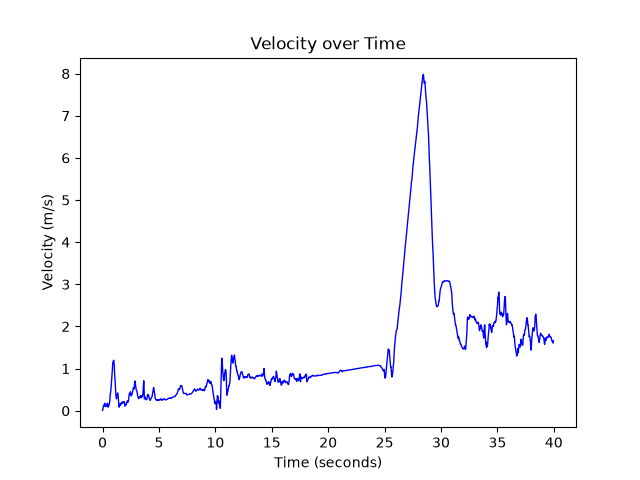
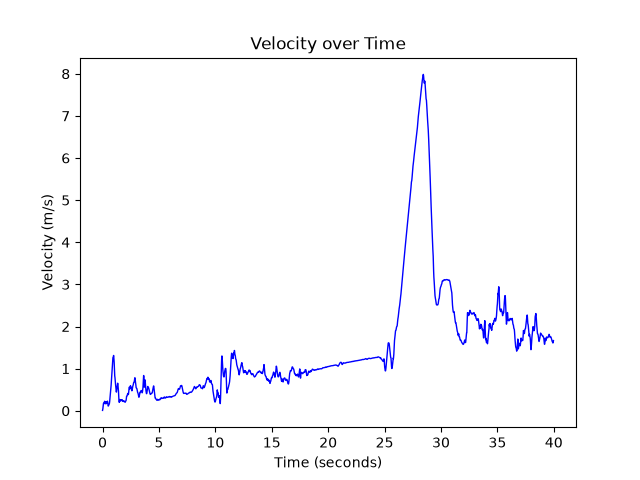
Use 3 vectors

Changed region(s): [[0.1562, 0.6562, 0.625, 0.8438], [0.6875, 0.625, 0.8438, 0.75], [0.6875, 0.5625, 0.7188, 0.5938]]

diff --git a/src/main.py b/src/main.py
@@ -32,12 +32,13 @@ def integrate():
     rotated = rotate_all()
     # velocity = rotated[:, -2] # -1, -2 works
 
-    to_find = [rotated[:, -2], rotated[:, -1]]
-    v_t_y_table, v_t_z_table = [], []
-    active_table = v_t_y_table
+    to_find = [rotated[:, -3], rotated[:, -2], rotated[:, -1]]
+    v_t_x_table, v_t_y_table, v_t_z_table = [], [], []
+    active_table = v_t_x_table
+    counter = 0
 
     for velo in to_find:
-        velocity = -cumtrapz(velo) * 0.01
+        velocity = cumtrapz(velo) * 0.01
 
         i = 0
         for j in velocity:
@@ -48,16 +49,20 @@ def integrate():
         active_table = np.array(active_table)
         time = active_table[:, 0]
         velocity = active_table[:, 1]
-        active_table = v_t_z_table
+        if (counter == 0):
+            active_table = v_t_y_table
+        else:
+            active_table = v_t_z_table
+        counter += 1
 
-    return np.array(v_t_y_table)[:, 1], np.array(v_t_z_table)[:, 1], time
+    return np.array(v_t_x_table)[:, 1], np.array(v_t_y_table)[:, 1], np.array(v_t_z_table)[:, 1], time
 
 def graph(vt):
-    velo_y, velo_z, time = vt
+    velo_x, velo_y, velo_z, time = vt
     resultants = np.zeros(len(velo_z))
 
     for i in range(len(velo_z)):
-        resultants[i] = np.sqrt(velo_y[i]**2 + velo_z[i]**2)
+        resultants[i] = np.sqrt(velo_x[i]**2 + velo_y[i]**2 + velo_z[i]**2)
 
     plt.plot(time, resultants, label="Velocity", color="blue", linewidth=1)
     plt.xlabel("Time (seconds)")
@@ -68,11 +73,11 @@ def graph(vt):
 
 # Go to middle of slope and fetch gradient
 def find_slope_midsect(vt):
-    velo_y, velo_z, time = vt
+    velo_x, velo_y, velo_z, time = vt
     velo = np.zeros(len(velo_z))
 
     for i in range(len(velo_z)):
-        velo[i] = np.sqrt(velo_y[i] ** 2 + velo_z[i] ** 2)
+        velo[i] = np.sqrt(velo_x[i]**2 +  velo_y[i]**2 + velo_z[i]**2)
     diff = np.diff(velo)
     peak = np.argmax(velo)
     baseline = np.median(velo[(peak - 350):(peak - 250)])
@@ -86,7 +91,7 @@ def find_slope_midsect(vt):
     for i in range(peak):
         if velo[i] <= low:
             i_lo = i
-        if velo[i] >= high:
+        if velo[i] <= high:
             i_hi = i
 
     ramp_t, ramp_v = [], []
